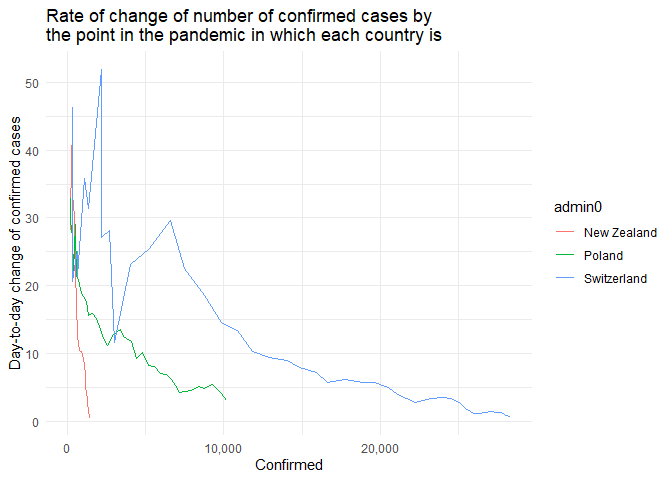
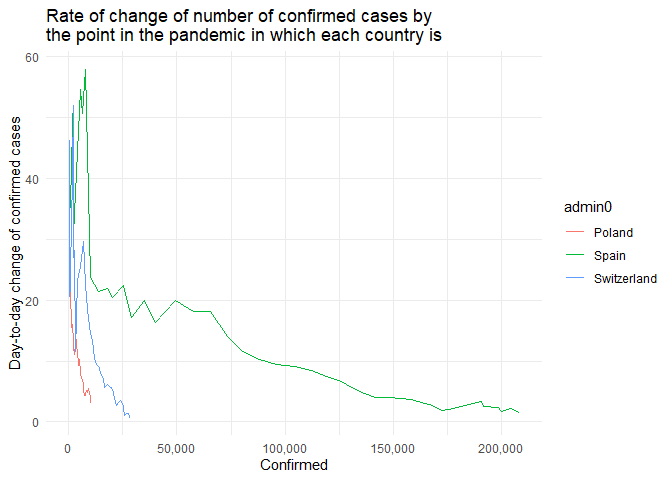
update

diff --git a/README.md b/README.md
@@ -10,7 +10,7 @@ upwards. `places_to_chart` defines which countries to chart. Duh.
 
 ``` r
 threshold = 100
-places_to_chart = c("Switzerland", "Poland", "New Zealand")
+places_to_chart = c("Switzerland", "Poland", "Spain")
 ```
 
 ## Load data
